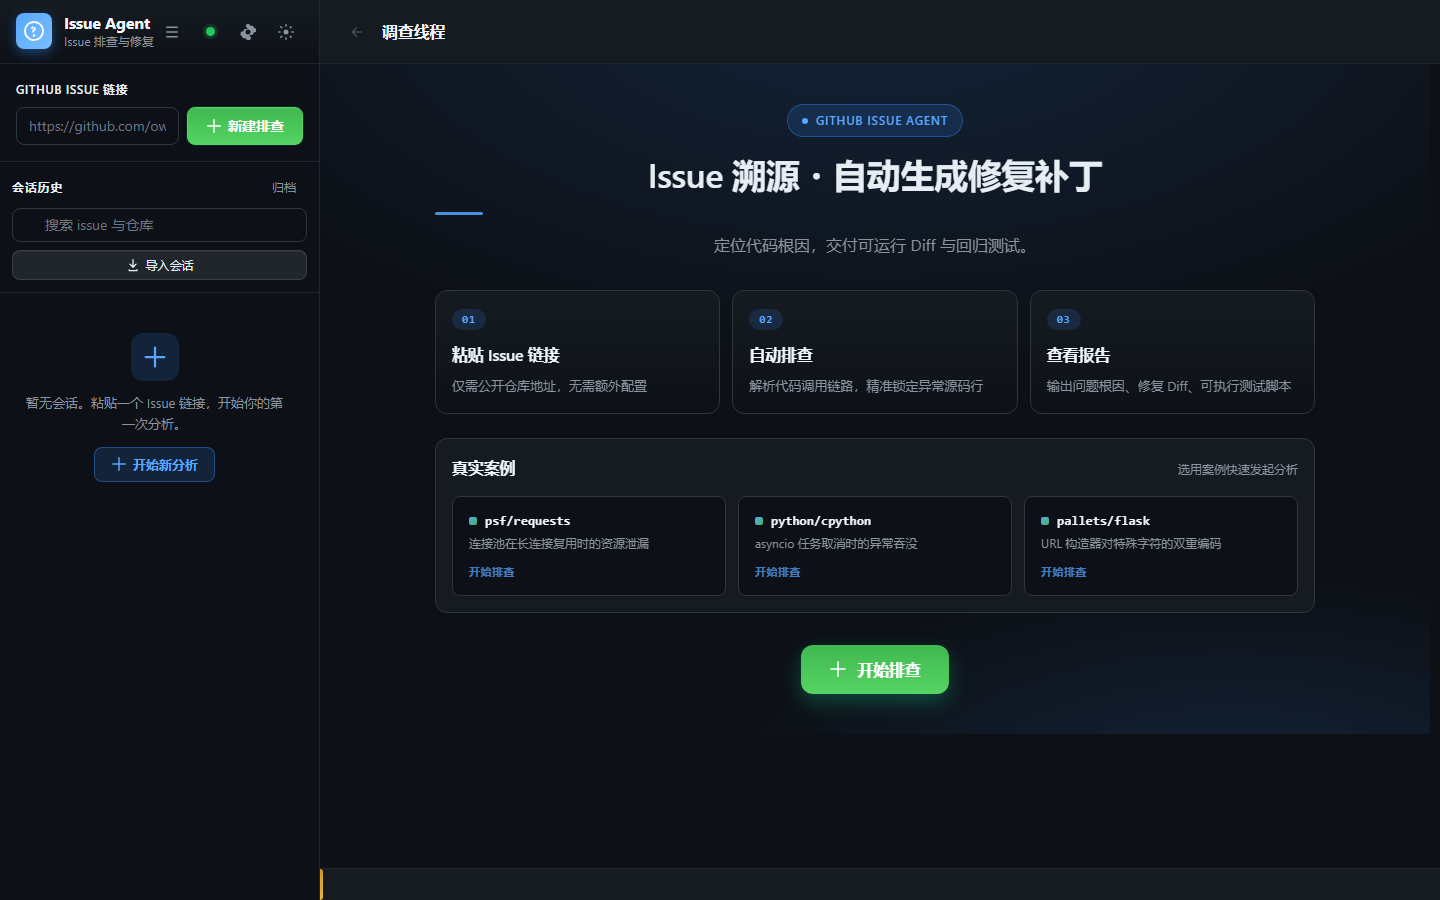
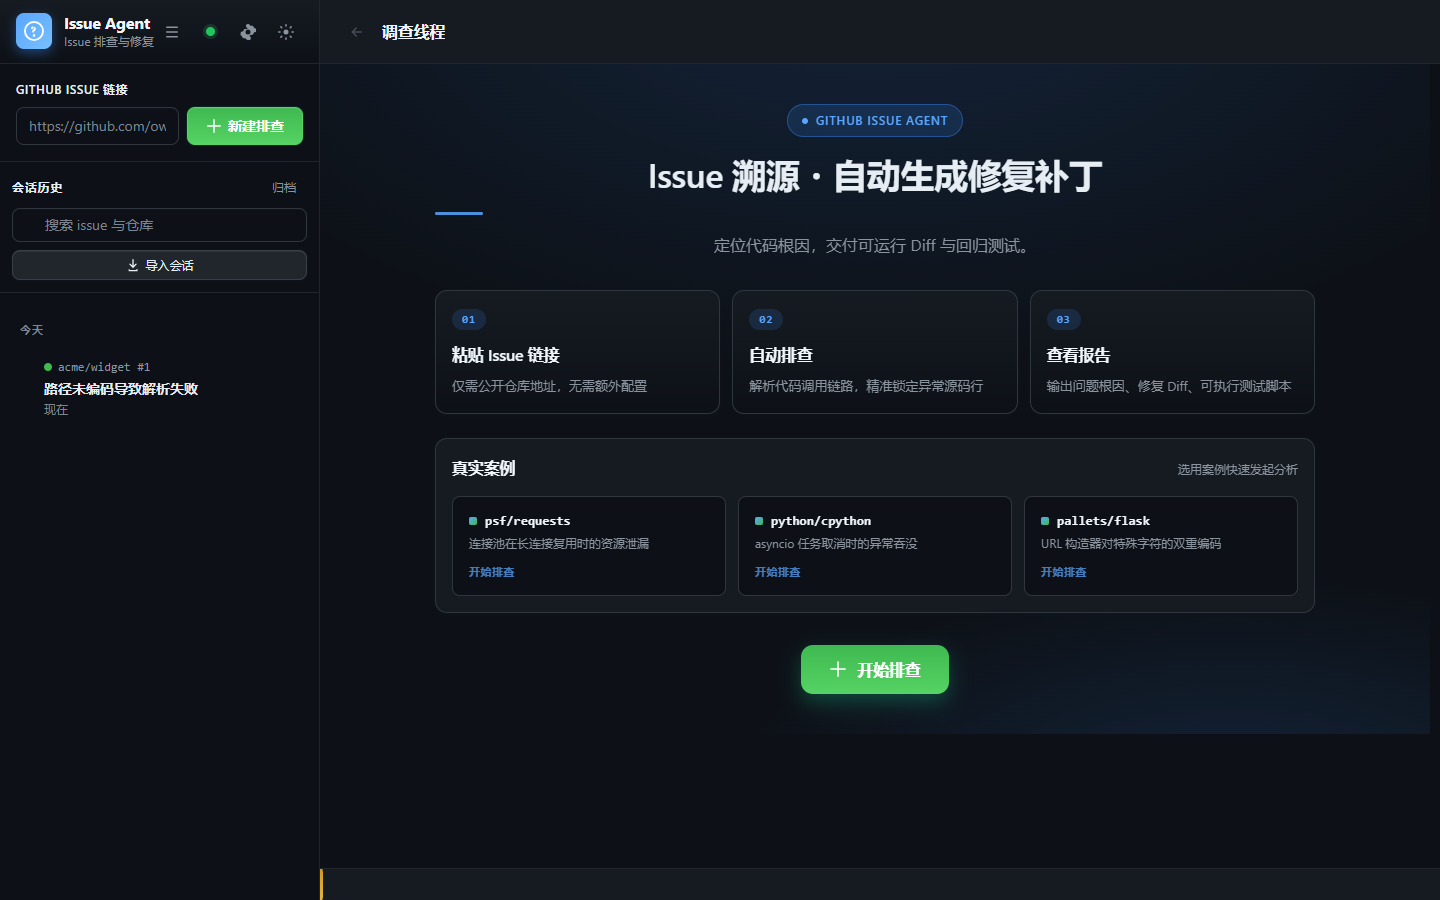
docs(a11y): 导出报告补地标并纳入 axe 审计，文档截图重拍可复现
- 导出的独立 HTML 报告此前没有 <main> 地标（axe landmark-one-main / region）：标题、
  元信息与报告主体都是 body 直接子元素。现用 <main> 包裹，导出文件在 axe 下零违规。
- axe e2e 用例扩展到导出页面：调用 IA.Export.selfContainedHtml 生成导出文件、阻断 CDN
  离线渲染后跑同一套断言，导出的报告不再有审计盲区（6 个在线界面 + 1 个导出文件）。
- docs/screenshots 三张图按新配色重新生成（此前是 2026-08-21 手工截取，调色板与文本色
  都已变化）；新增 scripts/capture_screenshots.cjs 让截图可复现，README 注明来源。
- .git-blame-ignore-revs 排除纯格式化提交；CHANGELOG 的 Unreleased 小节归位为
  Added / Fixed / Changed 三段。

验证：pytest 578 passed（覆盖率 97.53%）；ruff check / format --check / mypy 全通过；
本机 e2e 18/18（含导出页 axe 审计）。

Changed region(s): [[0.0, 0.3733, 0.1875, 0.56]]

diff --git a/e2e/ui.spec.js b/e2e/ui.spec.js
@@ -962,4 +962,28 @@ test("passes an automated accessibility audit on the main views", async ({ page 
   await page.click("#theme-toggle-btn");
   await page.waitForTimeout(500);
   await audit("报告面板（深色）");
+
+  // 导出的独立 HTML 报告：用户会单独打开这个文件，也必须通过同一套审计
+  const exportHtml = await page.evaluate((data) => {
+    const session = {
+      session_id: "s1", owner: "acme", repo: "widget", issue_number: 1,
+      metrics: {}, messages: [], events: [], report: data,
+    };
+    return window.IssueAgent.Export.selfContainedHtml(data, session);
+  }, report);
+  const exportPage = await page.context().newPage();
+  await exportPage.route("https://cdn.jsdelivr.net/**", (route) => route.abort());  // 离线审计，不依赖 CDN
+  await exportPage.setContent(exportHtml);
+  await exportPage.addScriptTag({ path: AXE_PATH });
+  const exportViolations = await exportPage.evaluate(async () => {
+    const result = await window.axe.run(document, { resultTypes: ["violations"] });
+    return result.violations.map((item) => ({
+      id: item.id,
+      impact: item.impact,
+      help: item.help,
+      targets: item.nodes.slice(0, 3).map((node) => node.target.join(" ")),
+    }));
+  });
+  expect(exportViolations, `导出的 HTML 报告存在可及性违规：${JSON.stringify(exportViolations, null, 2)}`).toEqual([]);
+  await exportPage.close();
 });

diff --git a/app/static/js/export.js b/app/static/js/export.js
@@ -392,9 +392,11 @@
 </head>
 <body>
 <button class="theme-toggle" type="button" data-label-light="${IA.escapeAttr(t("theme_light"))}" data-label-dark="${IA.escapeAttr(t("theme_dark"))}" onclick="var d=document.documentElement;var next=d.getAttribute('data-theme')==='dark'?'light':'dark';d.setAttribute('data-theme',next);this.textContent=this.getAttribute(next==='dark'?'data-label-dark':'data-label-light');document.dispatchEvent(new CustomEvent('issue-agent:report-theme'))">${IA.escapeHtml(t("theme_dark"))}</button>
+<main>
 <h1>${IA.escapeHtml(title)}</h1>
 <div class="meta">Generated by Issue Agent · ${IA.escapeHtml(generatedAt)}</div>
 <div id="report-root">${buildExportBody(r, sessionData)}</div>
+</main>
 
 <!-- ECharts CDN with SRI integrity -->
 <script src="https://cdn.jsdelivr.net/npm/echarts@5.5.0/dist/echarts.min.js"

diff --git a/CHANGELOG.md b/CHANGELOG.md
@@ -9,6 +9,13 @@ and this project adheres to [Semantic Versioning](https://semver.org/spec/v2.0.0
 
 ### Added
 
+- **axe 审计覆盖导出的 HTML 报告**：e2e 用例现在会调用 `IA.Export.selfContainedHtml`
+  生成导出文件、离线（阻断 CDN）渲染后跑同一套 axe 断言，导出的报告不再有审计盲区。
+- `scripts/capture_screenshots.cjs`：用路由 mock 复现三张文档截图，配色/布局变更后重跑即可。
+- `.git-blame-ignore-revs`：把纯格式化提交排除在 `git blame` 之外
+  （`git config blame.ignoreRevsFile .git-blame-ignore-revs`）。
+
+
 - `.github/dependabot.yml` — pip / npm / github-actions 三个生态的每周依赖更新，
   按生态分组并限制并发 PR 数量。
 - `CHANGELOG.md` — 本文件。
@@ -26,7 +33,25 @@ and this project adheres to [Semantic Versioning](https://semver.org/spec/v2.0.0
   才调用 pply-fix；写模式关闭时按钮置灰并给出可行动说明。面板用 MutationObserver
   观察报告容器注入，不改动 pp.js 的渲染流程；插值全部走 	extContent（无 innerHTML）。
 
+
+- **axe-core 自动化可及性审计**（`axe-core` 为 devDependency + 一条 e2e 用例）：在 6 个界面
+  （首页、设置抽屉、命令面板、帮助浮层、报告浅色、报告深色）上断言**零违规**，审计以
+  `prefers-reduced-motion` 运行，避免入场动画的 `opacity:0` 造成 button-name 误报。
+  上面 5 类问题全部是这条用例在 CI 上前置发现并修掉的。
+
+- **TypeScript 决策测试记录的是过期快照**：docstring 声称「无 package.json、
+  第三方库走 CDN、4644 行 / 3 个文件」，实际是「有 package.json（仅 Playwright
+  测试依赖、无构建脚本）、vendor 本地自带、约 8.1k 行 / 11 个文件」。改为用当前
+  文件系统事实做可计算断言，并在「构建链已就绪」时失败提醒重新决策。
+
 ### Fixed
+
+- **导出的独立 HTML 报告缺少地标（axe landmark-one-main / region）**：导出页的标题、
+  元信息与报告主体都是 `<body>` 直接子元素，屏幕阅读器无法按地标跳转。现用 `<main>`
+  包裹，导出文件在 axe 下同样达到零违规。
+- 文档截图与当前配色不一致（此前为 2026-08-21 手工截取）：已重新生成
+  `docs/screenshots/{home,report,charts}-dark.png`，并给出可复现脚本。
+
 
 - **Docker 镜像内数据目录不可写（严重）**：`/app/data` 此前不存在且归 root 所有，
   非 root 的 `appuser` 首次落库会 `PermissionError`（`SESSION_DB_PATH` 默认
@@ -169,18 +194,6 @@ ead_file {"path": ...}）：工具名与参数摘要改为本地化短语
   `role="main"`、`#sidebar` 补 `role="complementary"` + 可访问名；装饰性 `<header>`
   降级为 `<div>`（避免 banner 地标嵌套）。顺带修掉两处遗留的 `</header>` 闭合标签。
 
-### Added
-
-- **axe-core 自动化可及性审计**（`axe-core` 为 devDependency + 一条 e2e 用例）：在 6 个界面
-  （首页、设置抽屉、命令面板、帮助浮层、报告浅色、报告深色）上断言**零违规**，审计以
-  `prefers-reduced-motion` 运行，避免入场动画的 `opacity:0` 造成 button-name 误报。
-  上面 5 类问题全部是这条用例在 CI 上前置发现并修掉的。
-
-- **TypeScript 决策测试记录的是过期快照**：docstring 声称「无 package.json、
-  第三方库走 CDN、4644 行 / 3 个文件」，实际是「有 package.json（仅 Playwright
-  测试依赖、无构建脚本）、vendor 本地自带、约 8.1k 行 / 11 个文件」。改为用当前
-  文件系统事实做可计算断言，并在「构建链已就绪」时失败提醒重新决策。
-
 ### Changed
 
 - **类型检查与格式检查覆盖到测试与脚本**：mypy app/ tests/ scripts/ evals/ 现在全清
@@ -193,7 +206,6 @@ ead_file {"path": ...}）：工具名与参数摘要改为本地化短语
 - 排查记录：ruff check --fix 的 B010 会把 setattr(obj, "m", v) 自动改回直接赋值——
   改造中「改完又变回去」正是这个原因，改用显式类型忽略注释后稳定。
 
-### Changed
 
 - Docker 构建改为按 `uv.lock` 精确安装依赖（`uv export --frozen` 导出固定版本后交给
   pip 安装，项目本体 `--no-deps`）：锁文件此前提交却无人消费，镜像里装到的版本会随上游
@@ -217,7 +229,6 @@ ead_file {"path": ...}）：工具名与参数摘要改为本地化短语
 
 - 本机 .env 的 SESSION_STALE_AFTER_SECONDS 同步为 300，与代码默认值、
   .env.example、wiki 三方一致（原为 1800，会让横死会话多挂 25 分钟）。
-
 ## [0.6.0] - 2026-09
 
 ### Added

diff --git a/README.md b/README.md
@@ -49,6 +49,8 @@ flowchart LR
 
 <img src="docs/screenshots/charts-dark.png" alt="报告交互图表" width="960">
 
+> 截图由 `node scripts/capture_screenshots.cjs` 生成（路由 mock、无外部依赖），配色或布局变更后请重跑刷新。
+
 ## 功能特性
 
 - 🔍 **有界工具调用循环** — 模型在受限循环中自主探索：目录树浏览、全仓库代码搜索、按行号读取源码、Git 提交历史、分支列表、指定提交下的文件快照；支持并行执行独立只读工具并自动去重重复调用
